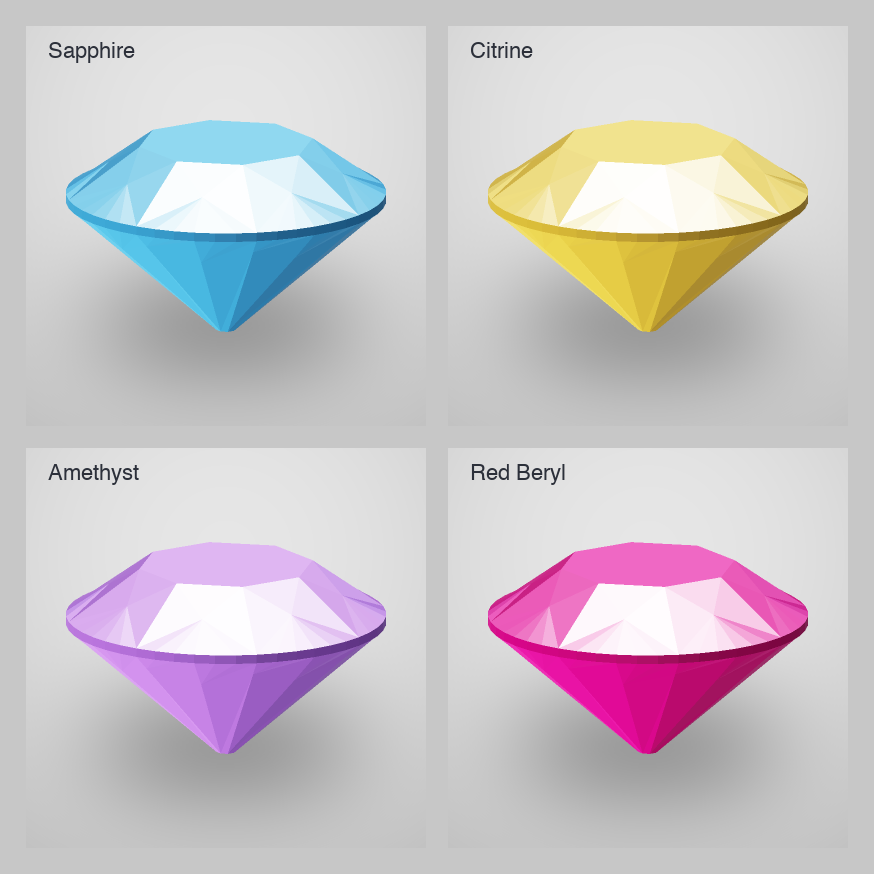
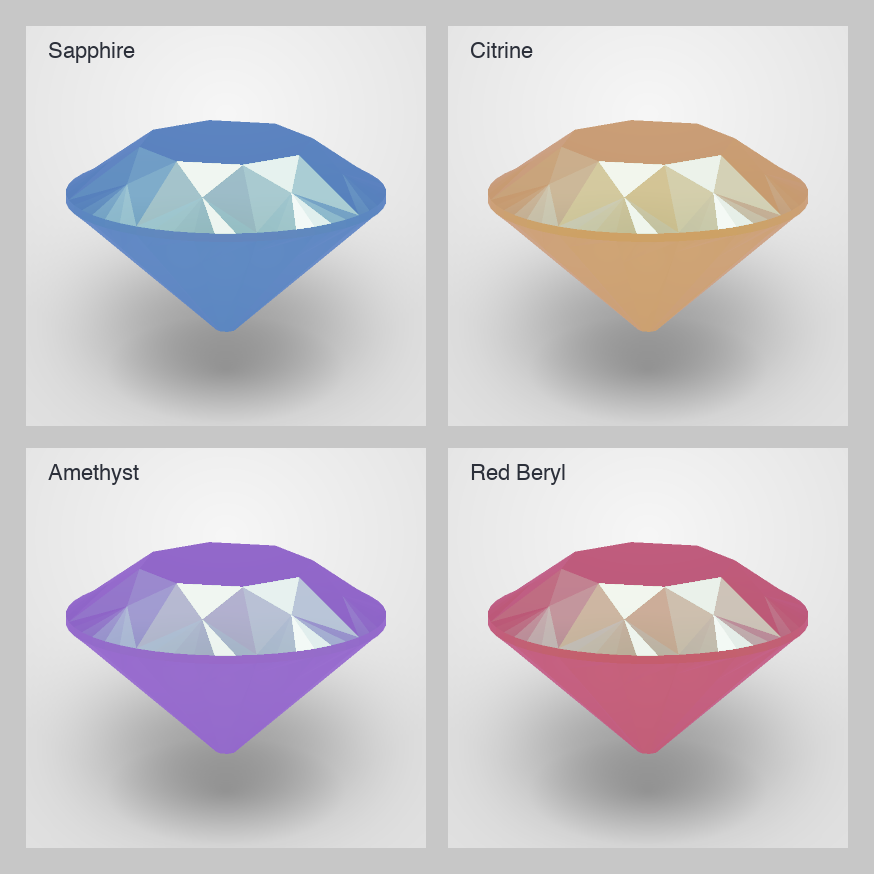
feat(gems): python twin synced to shipped material — refraction march, per-stone IOR + attenuation, ACES, thin-film sheen [plan:2026-09-21_000000-lump-sum-builds.md#phase-5]

diff --git a/prototype/gems/soft_render.py b/prototype/gems/soft_render.py
@@ -1,19 +1,15 @@
 """ADAM/GEMS — prototype/gems/soft_render.py · numpy z-buffer renderer adapter."""
+# [plan:2026-09-21_000000-lump-sum-builds.md#phase-5] · software twin of gem3d.js: the same
+# camera fit and the same material numbers (gem_optics.py), rasterised on the CPU.
+# — Camera: orthographic, ~15° elevation, 3/4 azimuth · per-face Newell normals, flat facets —
+# — Optics: the view ray is refracted at the entry facet, marched THICK through the stone,
+# —   Beer-Lambert attenuated and sampled on the stage backdrop the sheet puts behind the gem —
 import numpy as np
 
-SS = 2                                 # supersample factor (box-filtered back down)
-ENV_LO = np.array([0.05, 0.06, 0.09])  # studio floor — what downward facets mirror
-ENV_HI = np.array([1.80, 1.80, 1.80])  # HDR softbox above — upward facets mirror it
-KEY = np.array([-0.18, 0.96, 0.20])    # key softbox overhead (doubles as the glint)
-FILL = np.array([0.62, -0.25, 0.74])   # weak fill from front-right
-LAMP = np.array([0.35, -0.78, 0.52])   # bounce card under the stone → interior glow
-F0, DISP = 0.05, np.array([-0.06, 0.0, 0.06])  # fresnel base + dispersive "fire"
+from gem_optics import (DISP, THICK, TRANS, aces, attenuation, bilin, lin, refract, srgb,
+                        stage, surface, unit)
 
-
-def unit(v):
-    """Normalize a 3-vector (zero-safe)."""
-    n = float(np.linalg.norm(v))
-    return v / n if n > 1e-12 else v
+SS = 2                                   # supersample factor (box-filtered back down)
 
 
 def camera(elev=15.0, azim=-34.0):
@@ -42,27 +38,9 @@ def facets(positions, cells):
     return np.array(norms), tris
 
 
-def shade(n, base, view):
-    """Flat-facet material: Lambert + Blinn-Phong + fresnel rim over a 2-tone env."""
-    v = unit(view)
-    ndv = max(float(np.dot(n, v)), 0.0)
-    refl = 2.0 * ndv * n - v                       # mirror direction → studio env
-    t = np.clip((refl[1] + 0.02) / 0.30 + DISP, 0.0, 1.0)   # horizon + dispersion
-    env = ENV_LO + (ENV_HI - ENV_LO) * (t * t * (3.0 - 2.0 * t))
-    fres = F0 + (1.0 - F0) * (1.0 - ndv) ** 5
-    tint = base / max(float(base.max()), 1e-6)
-    lk, lf, ll = unit(KEY), unit(FILL), unit(LAMP)
-    diff = 0.55 * max(float(np.dot(n, lk)), 0.0) + 0.20 * max(float(np.dot(n, lf)), 0.0)
-    glow = max(float(np.dot(n, ll)), 0.0) ** 1.4   # light carried through the stone
-    spec = max(float(np.dot(n, unit(lk + v))), 0.0) ** 14 * 4.0
-    col = base * (0.26 + 1.35 * diff + 1.10 * glow)
-    col = col + env * (0.24 + 0.60 * fres) * (0.35 + 0.65 * tint)
-    col = col + 0.14 * fres + spec * (0.75 + 0.25 * fres)   # white glints + rim
-    return 1.0 - np.exp(-col * 1.7)                # soft highlight roll-off
-
-
-def render(positions, cells, base, size=400, ss=SS, fit=0.86, elev=15.0, azim=-34.0):
-    """Z-buffer one gem → (rgb HxWx3 0-1, coverage HxW 0-1), supersampled + box-filtered."""
+def render(positions, cells, base, ior=1.545, bg=None, size=400, ss=SS, fit=0.86, elev=15.0,
+           azim=-34.0):
+    """Z-buffer one gem → (rgb HxWx3 0-1, coverage HxW 0-1): the light stage seen through it."""
     P = np.asarray(positions, float)
     norms, tris = facets(positions, cells)
     R, U, F = camera(elev, azim)
@@ -73,7 +51,8 @@ def render(positions, cells, base, size=400, ss=SS, fit=0.86, elev=15.0, azim=-3
     sc = (W * fit) / ext
     sp = np.stack([(view[:, 0] - ctr[0]) * sc + W / 2.0,
                    H / 2.0 - (view[:, 1] - ctr[1]) * sc], axis=1)
-    cols = np.array([shade(n, base, -F) for n in norms])
+    tint, back = attenuation(base), lin(stage(W, bg))   # transmittance · linear stage radiance
+    surf = np.array([surface(n, base, ior, -F) for n in norms])
     zbuf, rgb, mask = np.full((H, W), np.inf), np.zeros((H, W, 3)), np.zeros((H, W))
     for a, b, c, fi in tris:
         p = sp[[a, b, c]]
@@ -91,10 +70,15 @@ def render(positions, cells, base, size=400, ss=SS, fit=0.86, elev=15.0, azim=-3
         hit = (w0 >= 0.0) & (w1 >= 0.0) & (w2 >= 0.0) & (zz < zbuf[y0:y1, x0:x1])
         if not hit.any():
             continue
+        through = np.zeros((y1 - y0, x1 - x0, 3))
+        for j, k in enumerate(DISP):               # one refraction per channel → dispersion
+            t = refract(-F, norms[fi], 1.0 / (ior * k))
+            through[..., j] = bilin(back, gx + THICK * sc * float(t @ R),
+                                    gy - THICK * sc * float(t @ U))[..., j]
         zbuf[y0:y1, x0:x1][hit] = zz[hit]
-        rgb[y0:y1, x0:x1][hit] = cols[fi]
+        rgb[y0:y1, x0:x1][hit] = (TRANS * through * tint + surf[fi])[hit]
         mask[y0:y1, x0:x1][hit] = 1.0
     box = (H // ss, ss, W // ss, ss)
     m = mask.reshape(box).mean((1, 3))
     c = rgb.reshape(box + (3,)).mean((1, 3)) / np.maximum(m[..., None], 1e-6)
-    return np.clip(c, 0.0, 1.0), m
+    return srgb(aces(c)), m

diff --git a/prototype/gems/render_gems.py b/prototype/gems/render_gems.py
@@ -1,22 +1,19 @@
 """ADAM/GEMS — prototype/gems/render_gems.py · 2x2 studio sheet of the category gems."""
-# Portable core: cut math comes from gem_cut.py, pixels from soft_render.py — this
-# file is only the photography (studio, shadow, labels, sheet layout).
-import os
-import time
+# Portable core: cut math comes from gem_cut.py, optics from gem_optics.py, pixels from
+# soft_render.py — this file is only the photography (stage card, shadow, labels, sheet).
+import os, re, time
 
 import numpy as np
 from PIL import Image, ImageDraw, ImageFilter, ImageFont
 
 from gem_cut import CATEGORIES, FALLBACK, gem_cut, resolve_colors
+from gem_optics import stage
 from soft_render import render
 
 HERE = os.path.dirname(os.path.abspath(__file__))
-LABELS = {"sapphire": "Sapphire", "citrine": "Citrine",
-          "amethyst": "Amethyst", "redberyl": "Red Beryl"}
+LABELS = {"sapphire": "Sapphire", "citrine": "Citrine", "amethyst": "Amethyst", "redberyl": "Red Beryl"}
 TILE, GAP, MARGIN = 400, 22, 26
-FONTS = ("/System/Library/Fonts/Helvetica.ttc",
-         "/System/Library/Fonts/Supplemental/Arial.ttf",
-         "/Library/Fonts/Arial.ttf")
+FONTS = ("/System/Library/Fonts/Helvetica.ttc", "/System/Library/Fonts/Supplemental/Arial.ttf", "/Library/Fonts/Arial.ttf")
 
 
 def hex_rgb(h):
@@ -24,21 +21,28 @@ def hex_rgb(h):
     return np.array([int(h[i:i + 2], 16) / 255.0 for i in (1, 3, 5)])
 
 
+def token(css, name, hops=4):
+    """Resolve a token to RGB, following var() chains; a missing token → neutral light gray."""
+    m = re.search(re.escape(name) + r"\s*:\s*([^;]+)", css)
+    v = m.group(1) if m else ""
+    for _ in range(hops):
+        n = re.search(r"--[\w-]+", v)
+        m = re.search(re.escape(n.group(0)) + r"\s*:\s*([^;]+)", css) if n else None
+        if not m:
+            break
+        v = m.group(1)
+    h = re.search(r"#[0-9a-fA-F]{3,8}", v)
+    return hex_rgb(h.group(0)) if h else np.full(3, 0.88)
+
+
 def font(size):
     """First available system sans, else PIL's bundled default."""
-    for path in FONTS:
+    for p in FONTS:
         try:
-            return ImageFont.truetype(path, size)
+            return ImageFont.truetype(p, size)
         except OSError:
             pass
     return ImageFont.load_default(size)
-
-
-def studio(tile=TILE):
-    """Light-gray studio sweep: vertical gradient + faint corner taper."""
-    y, x = np.mgrid[0:tile, 0:tile] / (tile - 1.0)
-    taper = 1.0 - 0.05 * ((x - 0.5) ** 2 + (y - 0.5) ** 2) * 4.0
-    return np.repeat(((0.935 - 0.090 * y) * taper)[..., None], 3, axis=2)
 
 
 def contact_shadow(mask, tile=TILE):
@@ -53,19 +57,22 @@ def contact_shadow(mask, tile=TILE):
     return np.asarray(plate.filter(ImageFilter.GaussianBlur(rx * 0.34)), float) / 255.0
 
 
-def tile(positions, cells, base):
-    """One gem photographed on a studio card → (HxWx3 float 0-1)."""
-    gem, mask = render(positions, cells, base, size=TILE, fit=0.80)
-    plate = studio() * (1.0 - 0.50 * contact_shadow(mask)[..., None])
+def tile(positions, cells, base, ior, bg):
+    """One gem photographed on the light stage card → (HxWx3 float 0-1)."""
+    gem, mask = render(positions, cells, base, ior=ior, bg=bg, size=TILE, fit=0.80)
+    plate = stage(TILE, bg) * (1.0 - 0.50 * contact_shadow(mask)[..., None])
     return plate * (1.0 - mask[..., None]) + gem * mask[..., None]
 
 
 def main():
-    """Render the four gems, label them, write gems-preview.png."""
+    """Render the four gems on the light stage, label them, write gems-preview.png."""
     started = time.time()
-    colors = resolve_colors(os.path.join(HERE, "..", "..",
-                                         "design-system", "tokens.css"))
+    css_path = os.path.join(HERE, "..", "..", "design-system", "tokens.css")
+    colors = resolve_colors(css_path)
     print("resolved:", colors)
+    bg = token(open(css_path).read(), "--bg-interactive")
+    print("stage: --bg-interactive →", np.round(bg, 3),
+          "· iors:", {k: v["ior"] for k, v in CATEGORIES.items()})
     positions, cells = gem_cut()
     print("verts:", len(positions), "faces:", len(cells))
     side = TILE * 2 + GAP + MARGIN * 2
@@ -73,8 +80,9 @@ def main():
     for i, key in enumerate(CATEGORIES):
         r, c = divmod(i, 2)
         x, y = MARGIN + c * (TILE + GAP), MARGIN + r * (TILE + GAP)
-        sheet[y:y + TILE, x:x + TILE] = tile(
-            positions, cells, hex_rgb(colors.get(key, FALLBACK[key])))
+        sheet[y:y + TILE, x:x + TILE] = tile(positions, cells,
+                                             hex_rgb(colors.get(key, FALLBACK[key])),
+                                             CATEGORIES[key]["ior"], bg)
     img = Image.fromarray((np.clip(sheet, 0, 1) * 255.0 + 0.5).astype(np.uint8))
     draw = ImageDraw.Draw(img)
     for i, key in enumerate(CATEGORIES):

diff --git a/prototype/gems/gem_optics.py b/prototype/gems/gem_optics.py
@@ -1,0 +1,99 @@
+"""ADAM/GEMS — prototype/gems/gem_optics.py · software twin of the shipped gem material."""
+# [plan:2026-09-21_000000-lump-sum-builds.md#phase-5] · mirrors gem-scene.js api.surface()
+# and gem-env.js api.stage(): the same transmission/thickness/attenuation numbers, the same
+# ACES tone map at exposure 0.95, the same light stage behind the stone.
+# — Material: view ray refracted at the entry facet, marched `thickness`, Beer-Lambert attenuated —
+# — Fire: the march is sampled at ior ×0.985 / 1.0 / 1.015 and R/G/B taken from each sample —
+# — Stage: token base + soft bright glow above centre + soft dark contact pool under the gem —
+import numpy as np
+
+ENV_LO = np.array([0.05, 0.06, 0.09])    # studio shell — what an unlit facet mirrors
+ENV_HI = 14.0                            # tent emitter radiance (HDR: survives ACES as a glint)
+KEY = np.array([0.42, 0.71, 0.57])       # directional key light (gem-scene.js: position 3, 5, 4)
+ENV_I, EMIT = 1.6, 0.12                  # envMapIntensity · emissive = base × EMIT
+TRANS, THICK, ATTD = 0.95, 0.9, 0.6      # transmission · march distance · attenuation distance
+TINT, EXPO = 0.3, 0.95                   # attenuationColor = base lerped TINT toward white
+DISP = (0.985, 1.0, 1.015)               # ior multipliers → R, G, B (chromatic dispersion)
+ACES_IN = np.array([[.59719, .35458, .04823], [.076, .90834, .01566], [.0284, .13383, .83777]])
+ACES_OUT = np.array([[1.60475, -.53108, -.07367], [-.10208, 1.10813, -.00605], [-.00327, -.07276, 1.07602]])
+
+
+def unit(v):
+    """Normalize a 3-vector (zero-safe)."""
+    n = float(np.linalg.norm(v))
+    return v / n if n > 1e-12 else v
+
+
+def refract(d, n, eta):
+    """Snell: bend ray d into a surface of normal n (eta = n1/n2), grazing-safe."""
+    c = -float(np.dot(n, d))
+    k = max(1.0 - eta * eta * (1.0 - c * c), 0.0)
+    return eta * d + (eta * c - np.sqrt(k)) * n
+
+
+def envdir(d):
+    """Studio env: near-black shell + a high ring tent of small bright emitters (gem-env.js)."""
+    band = np.exp(-((np.clip(d[1], 0.0, 1.0) - 0.85) / 0.22) ** 2)
+    speck = np.clip(np.cos(np.arctan2(d[2], d[0]) * 7.0), 0.0, 1.0) ** 8
+    return ENV_LO + ENV_HI * band * (0.05 + 0.95 * speck)
+
+
+def attenuation(base):
+    """attenuationColor = base lerped TINT toward white → transmittance over the march."""
+    c = lin(base)
+    return (c * (1.0 - TINT) + TINT) ** (THICK / ATTD)
+
+
+def stage(size, bg=None):
+    """Light stage backdrop: token base + soft bright glow above centre + contact pool below."""
+    bg = np.full(3, 0.88) if bg is None else np.asarray(bg, float)
+    y, x = np.mgrid[0:size, 0:size] / (size - 1.0)
+    glow = np.clip(1.0 - np.hypot(x - 0.5, (y - 0.22) * 1.1) / 0.72, 0.0, 1.0) * 0.72
+    pool = np.clip(1.0 - np.hypot(x - 0.5, (y - 0.86) * 2.2) / 0.30, 0.0, 1.0) * 0.26
+    return (bg + (1.0 - bg) * glow[..., None]) * (1.0 - 0.70 * pool[..., None])
+
+
+def bilin(img, x, y):
+    """Bilinear sample of an HxW(×3) image at fractional coords (edge-clamped)."""
+    x0, y0 = np.floor(x).astype(int), np.floor(y).astype(int)
+    fx, fy = (x - x0)[..., None], (y - y0)[..., None]
+    x0, y0 = np.clip(x0, 0, img.shape[1] - 2), np.clip(y0, 0, img.shape[0] - 2)
+    a, b = img[y0, x0], img[y0, x0 + 1]
+    c, d = img[y0 + 1, x0], img[y0 + 1, x0 + 1]
+    return a + (b - a) * fx + (c - a) * fy + (a - b - c + d) * fx * fy
+
+
+def lin(c):
+    """sRGB → linear: the space attenuation and tone mapping work in."""
+    c = np.asarray(c, float)
+    return np.where(c <= 0.04045, c / 12.92, ((c + 0.055) / 1.055) ** 2.4)
+
+
+def srgb(c):
+    """Linear → sRGB for the 8-bit output."""
+    c = np.clip(c, 0.0, None)
+    return np.where(c <= 0.0031308, c * 12.92, 1.055 * c ** (1.0 / 2.4) - 0.055)
+
+
+def aces(c):
+    """three.js ACESFilmicToneMapping at the rig exposure."""
+    v = (np.clip(c, 0.0, None) * EXPO) @ ACES_IN.T
+    v = (v * (v + 0.0245786) - 0.000090537) / (v * (0.983729 * v + 0.4329510) + 0.238081)
+    return np.clip(v @ ACES_OUT.T, 0.0, 1.0)
+
+
+def film(n, v):
+    """Thin-film specular tint (gem-scene.js: iridescence .45 · film ior 1.9 · 640 nm)."""
+    t = 4.0 * np.pi * 1.9 * 640.0 * (1.0 - (1.0 - max(float(np.dot(n, v)), 0.0) ** 2) / 3.61) ** 0.5 / 620.0
+    return 1.0 + 0.45 * np.cos(t + np.array([0.0, 2.1, 4.2]))
+
+
+def surface(n, base, ior, view):
+    """Flat-facet surface: mirror env + fresnel rim + tight key glint + thin-film sheen."""
+    v = unit(view)
+    ndv = max(float(np.dot(n, v)), 0.0)
+    f0 = ((ior - 1.0) / (ior + 1.0)) ** 2
+    fres = f0 + (1.0 - f0) * (1.0 - ndv) ** 5
+    glint = max(float(np.dot(n, unit(KEY + v))), 0.0) ** 60 * 2.0
+    spec = (envdir(2.0 * ndv * n - v) * ENV_I + glint) * (0.35 + 0.65 * fres)
+    return EMIT * lin(base) + spec * film(n, v)

diff --git a/prototype/gems/README.md b/prototype/gems/README.md
@@ -23,10 +23,12 @@ of `gem_cut.py`; the check file lands with the JS cut upgrade).
 | adapter | engine | file | output |
 | --- | --- | --- | --- |
 | three.js | WebGL, MeshPhysicalMaterial | `src/components/GemReward/gem3d.js` | `canvas[data-gem]` |
-| numpy | software z-buffer, studio material | `prototype/gems/soft_render.py` | float RGB + coverage |
+| optics | the shipped material + stage numbers (no pixels) | `prototype/gems/gem_optics.py` | — |
+| numpy | software z-buffer, same material as the browser | `prototype/gems/soft_render.py` | float RGB + coverage |
 | sheet | PIL photography (card, shadow, labels) | `prototype/gems/render_gems.py` | `gems-preview.png` |
 
-Every adapter consumes `positions` / `cells` plus one base colour and nothing else.
+Every adapter consumes `positions` / `cells` plus one base colour, the stone's `ior` and the
+stage colour; `gem_optics.py` holds the material numbers the two runtimes must agree on.
 
 ## How to port to a new engine (Blender, Unity, a shader, SVG)
 
@@ -37,18 +39,25 @@ Every adapter consumes `positions` / `cells` plus one base colour and nothing el
    flat facets are the look, not an approximation to hide.
 4. camera: orthographic-ish, ~15° elevation, 3/4 azimuth; project to (right, up) and keep
    forward as depth for the z-buffer.
-5. material: base colour from the category token, Lambert diffuse + Blinn-Phong specular
-   + fresnel rim, reflected against a two-tone studio env (bright above, dark below).
-6. supersample 2x and box-filter down for clean edges; composite over a studio card.
+5. material — the shipped recipe: refract the view ray at the entry facet, march `thickness`
+   (0.9) through the stone, sample the stage backdrop at the projected exit point and
+   attenuate it Beer-Lambert style (`attenuationColor` = base lerped 30% toward white, over
+   `attenuationDistance` 0.6). Add the flat-facet surface — mirror env, fresnel rim, tight
+   key glint, thin-film sheen — then ACES-tone-map at exposure 0.95.
+6. fire: sample that march three times at `ior` ×0.985 / 1.0 / 1.015 and take R/G/B from each
+   sample. Supersample 2x, box-filter down, composite over the light stage card.
 
-`soft_render.py` is the reference implementation of exactly those six steps, in 100 lines.
+`soft_render.py` (camera + rasteriser) and `gem_optics.py` (material + stage) are the
+reference implementation of exactly those six steps.
 
 ## File map (`prototype/gems/`)
 
 - `gem_cut.py` — python twin of the cut: `CUT`, `CATEGORIES`, `FALLBACK`, `gem_cut()`,
   `resolve_colors(css_path)` (reads exact token hexes out of `design-system/tokens.css`).
+- `gem_optics.py` — the material + stage, runtime-free: Snell refraction, Beer-Lambert
+  attenuation, the thin-film sheen, ACES, and the light stage backdrop.
 - `soft_render.py` — numpy adapter: orthographic camera, per-face normals, z-buffer
-  rasteriser, two-tone studio material (diffuse + specular + fresnel + dispersion).
+  rasteriser, and the transmission march that samples the stage per channel.
 - `render_gems.py` — the sheet: 2x2 studio tiles, soft elliptical contact shadow, labels,
   writes `gems-preview.png`.
 - `gem-shot.mjs` — rating rig: headless Chrome screenshot + DOM probe for the browser
@@ -69,12 +78,17 @@ gone; numpy does the rasterising and PIL does the compositing.
 
 ## Status and known limits
 
-- `gem_cut.py` currently carries the round-brilliant upgrade: 32 facets → 104 verts /
-  204 faces, and the vivid `-400` ramp (`#218aea`, `#ffb01e`, `#a54cff`, `#ea005e`).
-  `gem-cut.js` and `gem3d.js` still build the older 16-facet cut (34 verts / 64 faces)
-  with `-500` tokens until that upgrade lands — no adapter change is needed either way.
-- Facets are opaque: the material fakes interior life with a bounce-card glow and an
-  environment mirror, but there is no refraction, caustics or dispersion-by-ray. A
-  ray-traced core would be the next step if true transparency is required.
+- The cut cores agree: 48 silhouette columns → 136 verts / 268 faces, built from the vivid
+  `-400` ramp (`#218aea`, `#ffb01e`, `#a54cff`, `#ea005e`) on both sides; `parity_check.py`
+  asserts the vertex order at 1e-9.
+- The software twin now runs the shipped material: a refracted march of `thickness` (0.9)
+  through the stone, Beer-Lambert attenuation (`attenuationColor` / `attenuationDistance`
+  0.6), per-stone `ior`, ACES at exposure 0.95, and the thin-film sheen. Facets are still
+  single-bounce: no interior total-internal-reflection paths and no caustics, so the fire is
+  per-facet colour rather than a traced sparkle.
+- The refraction is sampled three times (`ior` ×0.985 / 1.0 / 1.015, R/G/B from each sample),
+  but on this smooth stage the three exits land ~2 px apart, so the fringe measures ≈0.4/255
+  in a still — the same reason it reads as fire in motion and not in a frame.
 - Colours come from `design-system/tokens.css`; a missing token falls back to the hexes
-  in `gem_cut.py`'s `FALLBACK`, so the sheet always renders.
+  in `gem_cut.py`'s `FALLBACK`, so the sheet always renders. The stage base is the
+  `--bg-interactive` token, resolved through its `var()` chain by `render_gems.py`.
